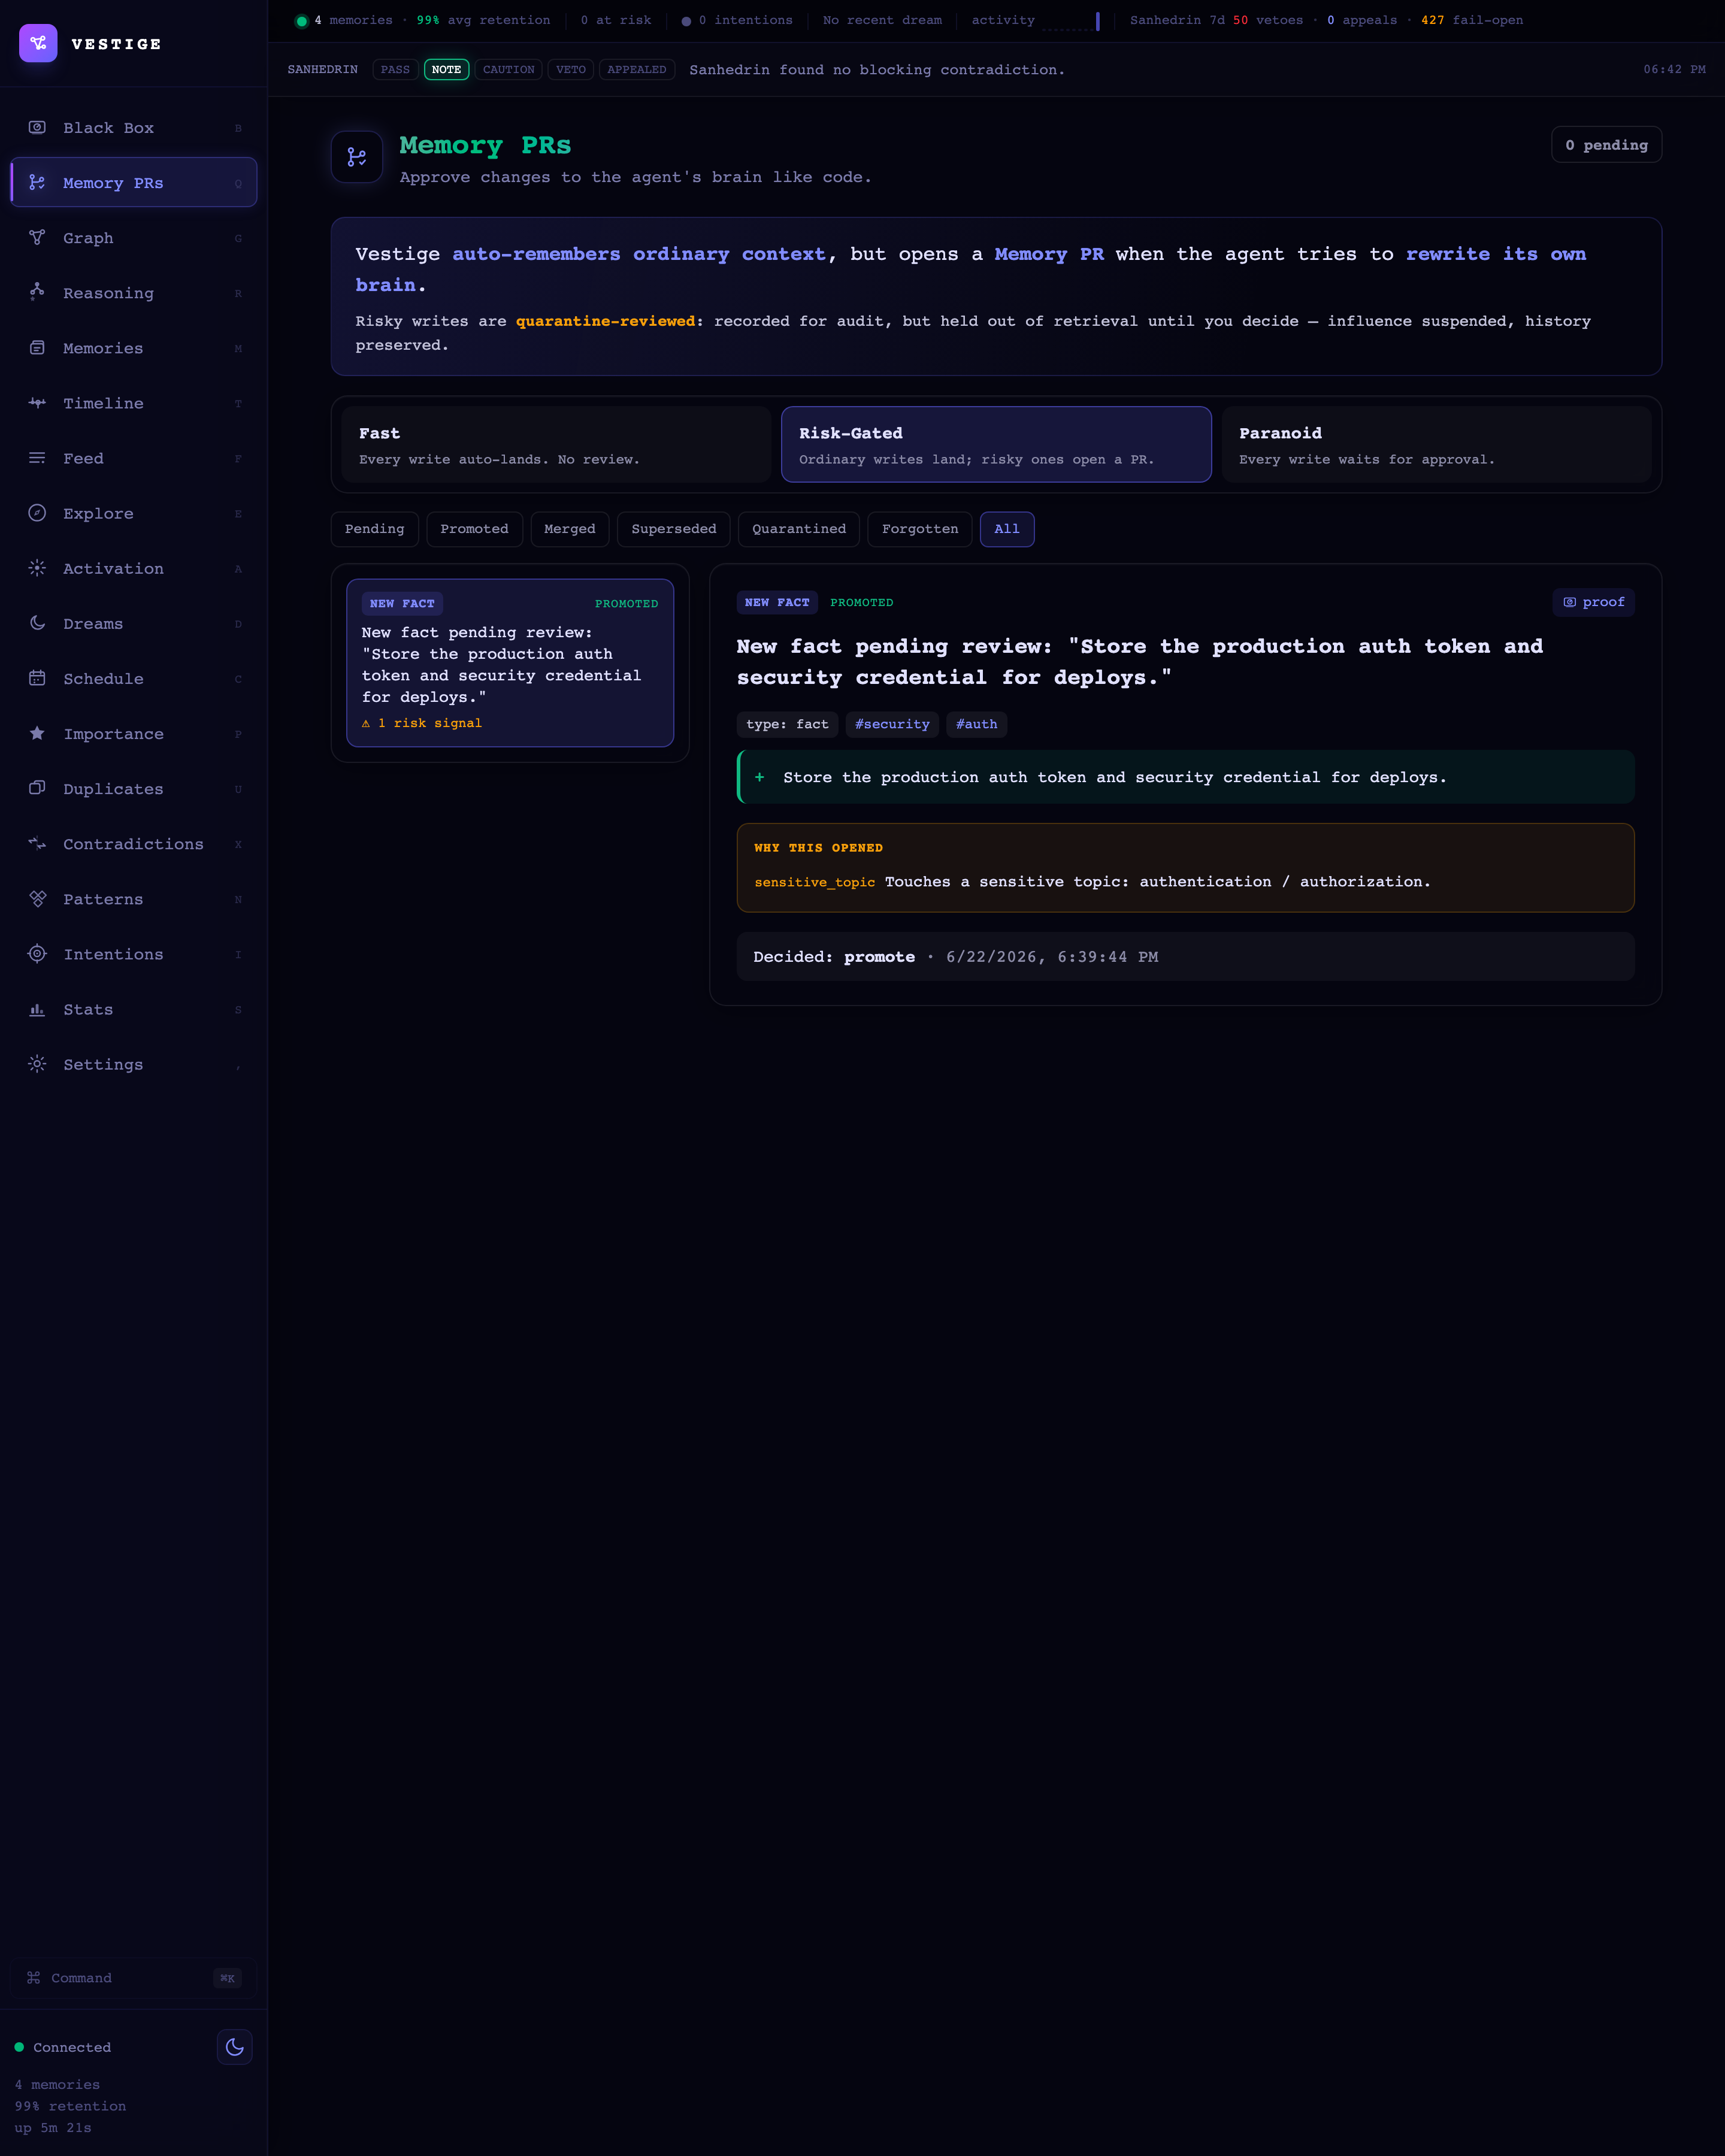
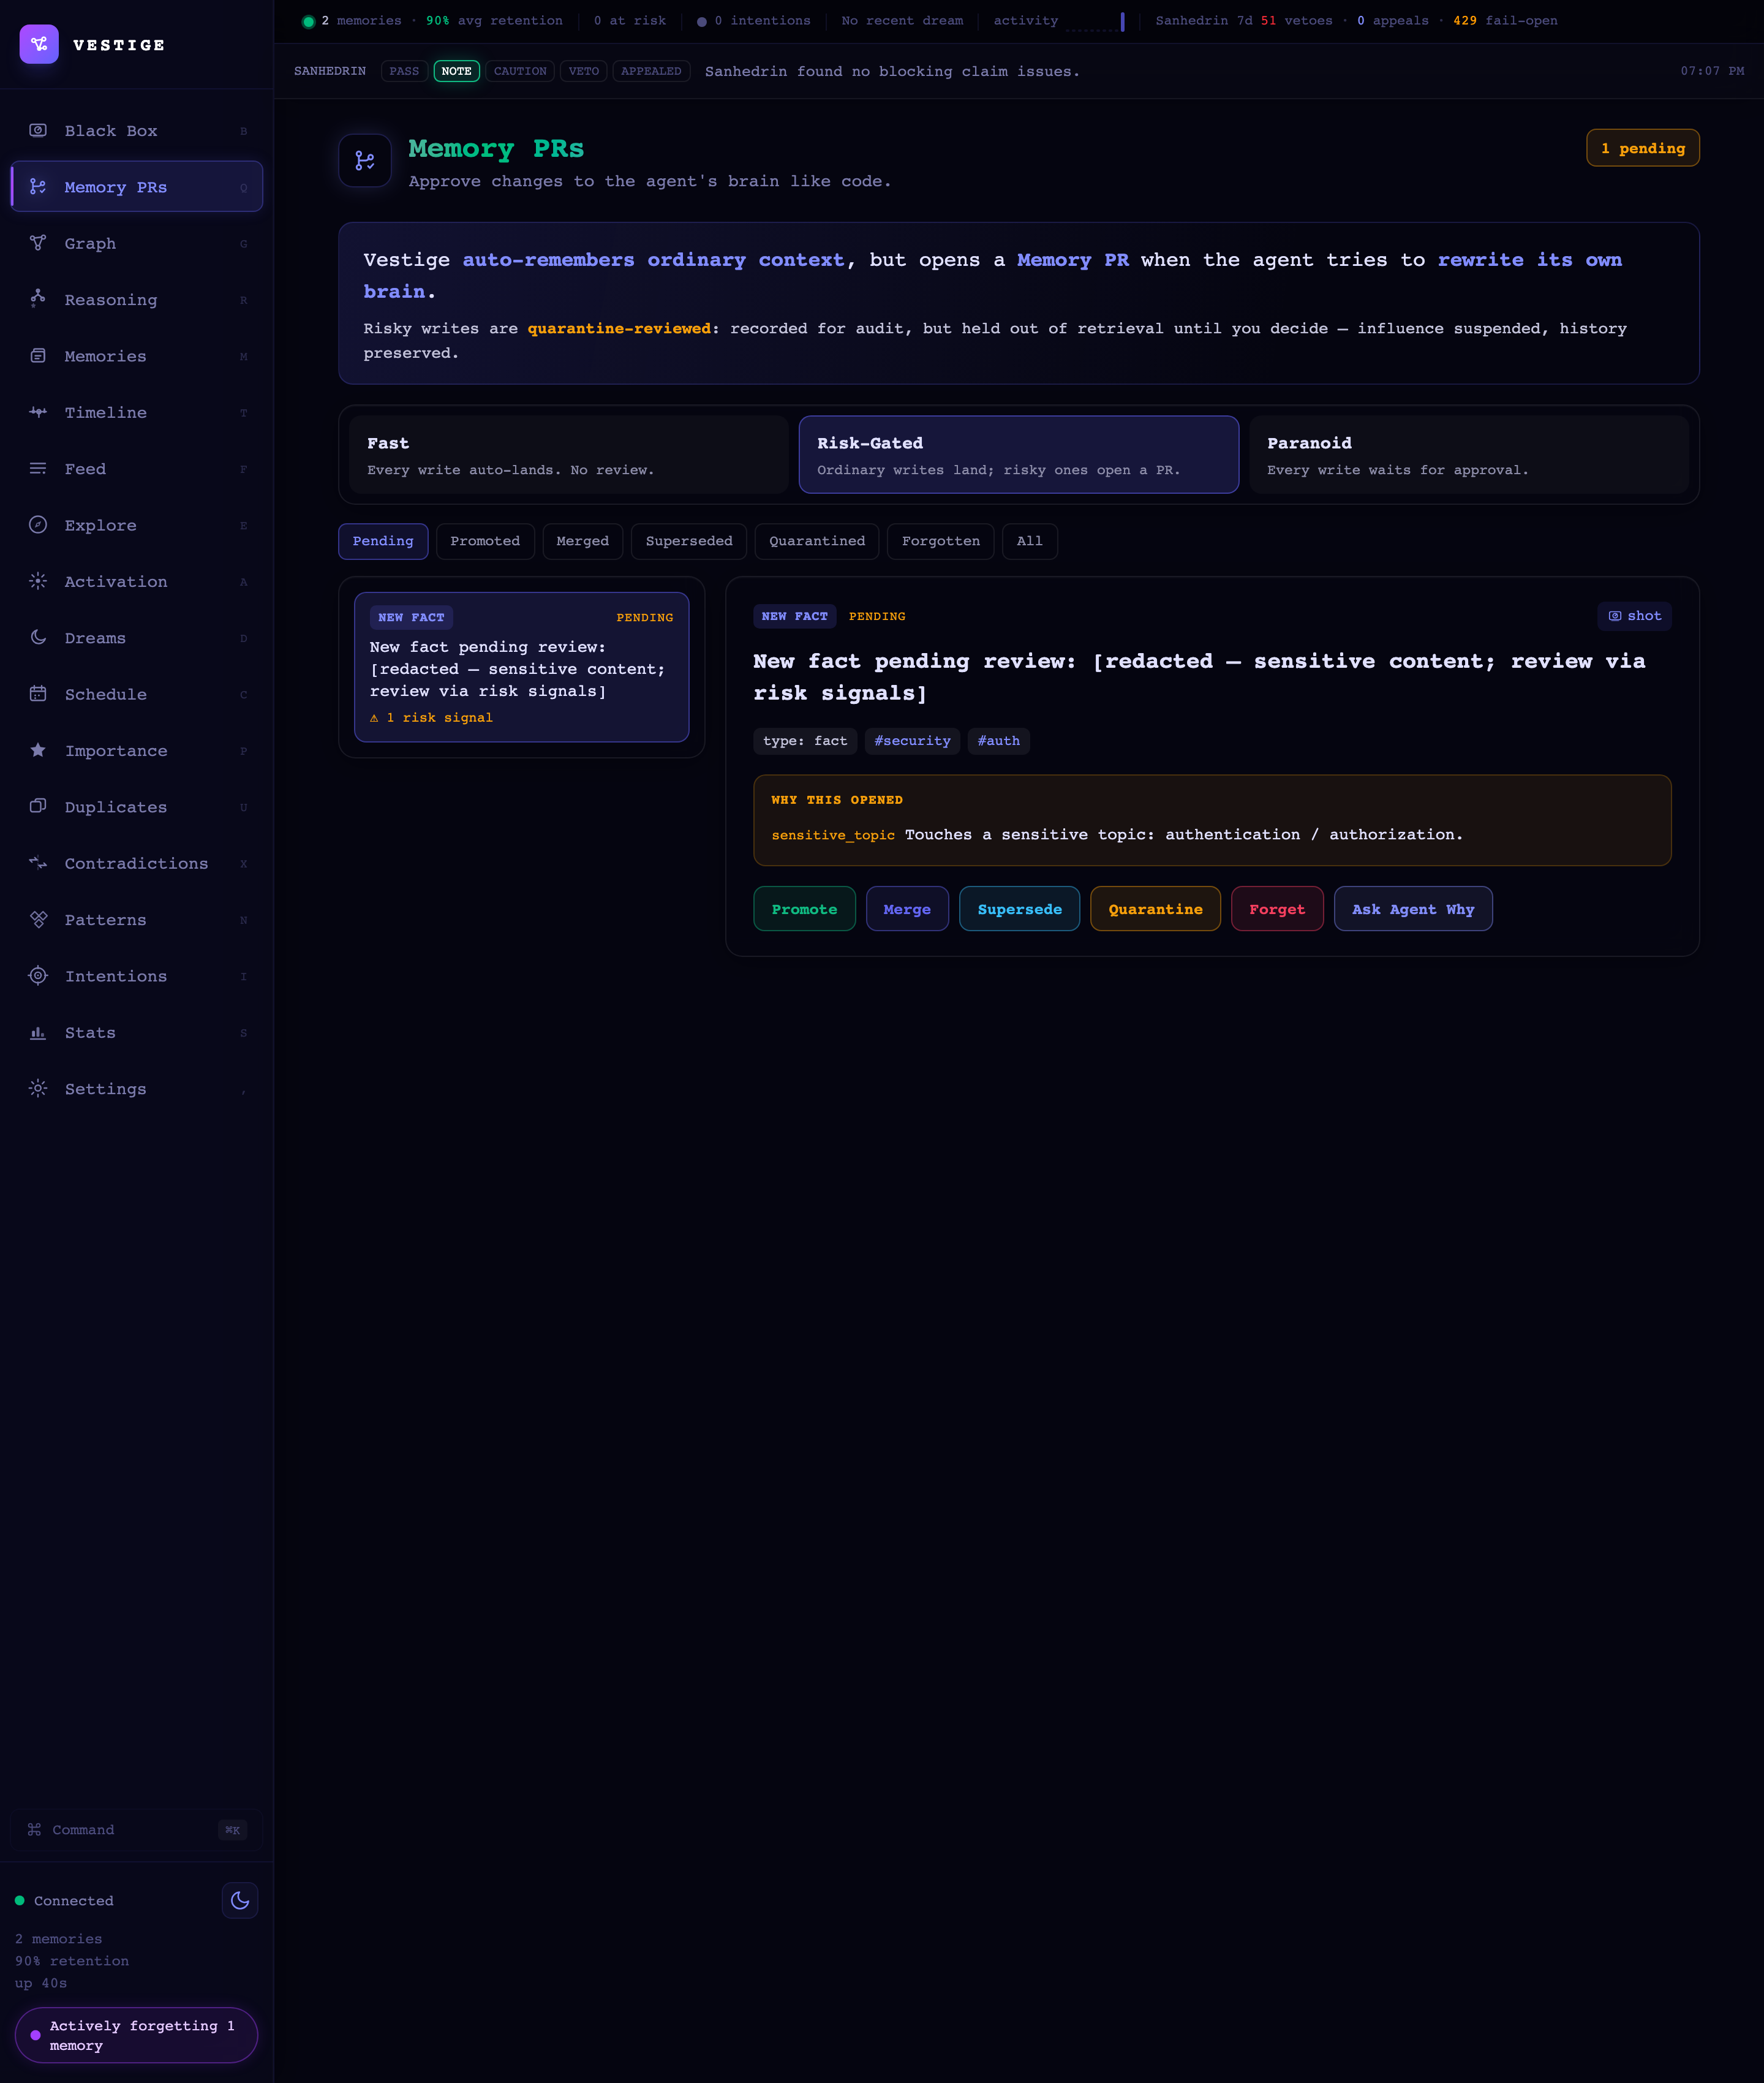
fix(blackbox): C2-deep gate destructive writes post-delete + redact PR content
Two deeper review findings (both blockers) + doc de-staling.

C2-deep: my earlier C2 made purge/delete TRACE as memory.write, but gate_writes
did `get_node(id) -> skip on None`, and purge had already DELETEd the row — so a
destructive removal still never opened a Memory PR (it was silently skipped).
The most security-critical write type couldn't be reviewed. Fix: a missing node
is now gateable for destructive decisions — gate_writes builds the WriteContext
from the decision itself (marks `forgets`, which classify_write gates), and the
PR records the removal with node.deleted=true. Proven live: purging a node opens
a PR (kind node_decayed, deleted true); test
gate_opens_pr_for_destructive_write_after_node_deleted_c2.

PRIV: gate_writes copied the FULL node.content into the PR diff + title, so a
real secret in a gated memory would leak into the memory_prs table, the
dashboard, and any exported proof bundle — defeating the point of gating
sensitive writes. Fix: the PR now stores a truncated content PREVIEW + an FNV
content HASH, and sensitive-topic/sensitive-node-type writes are fully REDACTED
("[redacted — sensitive content; review via risk signals]"). The reviewer still
sees the risk signals (why it opened) and a hash (to correlate), never the
secret. Tests gate_redacts_sensitive_content_in_pr_priv,
content_preview_redacts_sensitive_and_truncates, content_hash_is_stable. The
committed memory_pr.json + the whole proof bundle were re-captured and contain
[…]

diff --git a/crates/vestige-mcp/src/trace_recorder.rs b/crates/vestige-mcp/src/trace_recorder.rs
@@ -109,61 +109,81 @@ pub fn gate_writes(
     // Collect each (id, decision) write the tool reported.
     let writes = extract_writes(result);
     for (id, decision) in writes {
+        let destructive = is_destructive_decision(&decision);
+
         // Pull the just-written node to inspect its real content/type/tags.
+        // C2: a destructive write (purge/delete/forget) has ALREADY removed the
+        // row, so get_node returns None — we must NOT skip it (that's how
+        // destructive removals were bypassing review). For those, build the
+        // context from the decision alone; for normal writes a missing node
+        // genuinely means nothing to gate, so skip.
         let node = match storage.get_node(&id) {
-            Ok(Some(n)) => n,
+            Ok(Some(n)) => Some(n),
+            _ if destructive => None,
             _ => continue,
         };
 
-        // A decision of supersede/replace/merge means the write overwrote an
-        // existing memory — the strongest risk signal. Look up the trust of the
-        // memory it superseded so the gate can weigh it.
         let (supersedes, merges) = match decision.as_str() {
-            "supersede" | "replace" => (true, false),
-            "merge" => (false, true),
+            "supersede" | "replace" | "superseded" => (true, false),
+            "merge" | "merged" => (false, true),
             _ => (false, false),
         };
         // If this superseded something, treat the contradiction as against a
         // high-trust memory when the *new* node's own retention is high (the
         // pipeline only supersedes when confident). This keeps the gate honest
         // without a second DB round-trip per write.
-        let contradicts_trust = if supersedes {
-            Some(node.retention_strength.max(0.7))
-        } else {
-            None
+        let contradicts_trust = match (&node, supersedes) {
+            (Some(n), true) => Some(n.retention_strength.max(0.7)),
+            _ => None,
         };
 
         let ctx = WriteContext {
             source: Some(WriteSource::Agent),
-            node_type: node.node_type.clone(),
-            content: node.content.clone(),
-            tags: node.tags.clone(),
+            node_type: node.as_ref().map(|n| n.node_type.clone()).unwrap_or_default(),
+            content: node.as_ref().map(|n| n.content.clone()).unwrap_or_default(),
+            tags: node.as_ref().map(|n| n.tags.clone()).unwrap_or_default(),
             contradicts_trust,
             supersedes,
             merges,
+            forgets: destructive,
             ..Default::default()
         };
 
+        // A destructive write ALWAYS warrants review (erasing brain state) even
+        // in Fast mode is debatable, but we respect the mode: the `forgets`
+        // signal in WriteContext makes classify_write gate it in Risk-Gated.
         let (class, signals) = classify_write(&ctx, mode);
         if class != RiskClass::Review {
             continue;
         }
 
-        // Quarantine the just-written node: suppress it so it is held out of
-        // retrieval until the PR is decided. Best-effort.
-        let _ = storage.suppress_memory(&id);
+        // Quarantine the just-written node so it's held out of retrieval until
+        // the PR is decided. For a destructive write there's no live node to
+        // suppress — the PR records the action for review/audit instead.
+        if node.is_some() {
+            let _ = storage.suppress_memory(&id);
+        }
 
         let kind = match decision.as_str() {
-            "supersede" | "replace" => MemoryPrKind::MemorySuperseded,
-            "merge" => MemoryPrKind::DreamConsolidation,
+            "supersede" | "replace" | "superseded" => MemoryPrKind::MemorySuperseded,
+            "merge" | "merged" => MemoryPrKind::DreamConsolidation,
+            _ if destructive => MemoryPrKind::NodeDecayed,
             _ if contradicts_trust.is_some() => MemoryPrKind::ContradictionDetected,
             _ => MemoryPrKind::NewFact,
         };
-        let title = format!(
-            "{}: \"{}\"",
-            pr_kind_phrase(kind),
-            node.content.chars().take(80).collect::<String>()
-        );
+
+        // PRIV: never copy full memory content into the PR (it can hold a
+        // secret, and the PR row is read by the dashboard and may be exported).
+        // Store a short, redacted preview + a content hash instead. The preview
+        // is dropped entirely when the write was gated for a sensitive topic.
+        let sensitive = signals.iter().any(|s| {
+            s.code == "sensitive_topic" || s.code == "sensitive_node_type"
+        });
+        let raw_content = node.as_ref().map(|n| n.content.as_str()).unwrap_or("");
+        let preview = content_preview(raw_content, sensitive);
+        let content_hash = hash_content(raw_content);
+
+        let title = format!("{}: {}", pr_kind_phrase(kind), preview);
         let pr = MemoryPr {
             id: format!("pr_{}", uuid::Uuid::new_v4().simple()),
             kind,
@@ -172,10 +192,14 @@ pub fn gate_writes(
             diff: serde_json::json!({
                 "decision": decision,
                 "node": {
-                    "id": node.id,
-                    "nodeType": node.node_type,
-                    "content": node.content,
-                    "tags": node.tags,
+                    "id": id,
+                    "nodeType": node.as_ref().map(|n| n.node_type.clone()).unwrap_or_default(),
+                    // Redacted: preview (or "[redacted — sensitive]") + hash,
+                    // never the full content.
+                    "contentPreview": preview,
+                    "contentHash": content_hash,
+                    "tags": node.as_ref().map(|n| n.tags.clone()).unwrap_or_default(),
+                    "deleted": node.is_none(),
                 },
             }),
             signals: signals.clone(),
@@ -212,6 +236,46 @@ pub fn gate_writes(
     }
 
     opened
+}
+
+/// Whether a write decision permanently removes / forgets memory (so the live
+/// row may already be gone when the gate runs).
+fn is_destructive_decision(label: &str) -> bool {
+    matches!(
+        label,
+        "purge" | "purged" | "delete" | "deleted" | "forget" | "forgotten"
+    )
+}
+
+/// A short, privacy-preserving preview of memory content for a Memory PR.
+/// When the write was flagged for a sensitive topic, the content is redacted
+/// entirely — the reviewer sees the risk signals + hash, never the secret.
+fn content_preview(content: &str, sensitive: bool) -> String {
+    if content.is_empty() {
+        return "(no content)".to_string();
+    }
+    if sensitive {
+        return "[redacted — sensitive content; review via risk signals]".to_string();
+    }
+    let trimmed: String = content.chars().take(80).collect();
+    if content.chars().count() > 80 {
+        format!("{trimmed}…")
+    } else {
+        trimmed
+    }
+}
+
+/// FNV-1a hex fingerprint of memory content — lets a reviewer correlate /
+/// dedupe without the PR row carrying the raw (possibly secret) text.
+fn hash_content(content: &str) -> String {
+    const FNV_OFFSET: u64 = 0xcbf2_9ce4_8422_2325;
+    const FNV_PRIME: u64 = 0x0000_0100_0000_01b3;
+    let mut hash = FNV_OFFSET;
+    for b in content.as_bytes() {
+        hash ^= u64::from(*b);
+        hash = hash.wrapping_mul(FNV_PRIME);
+    }
+    format!("{:016x}", hash)
 }
 
 fn pr_kind_phrase(kind: vestige_core::MemoryPrKind) -> &'static str {
@@ -843,6 +907,40 @@ mod tests {
     }
 
     #[test]
+    fn destructive_decision_classification_c2() {
+        for d in ["purge", "delete", "forget", "purged", "deleted", "forgotten"] {
+            assert!(is_destructive_decision(d), "{d} is destructive");
+        }
+        for d in ["create", "update", "promote", "reinforce"] {
+            assert!(!is_destructive_decision(d), "{d} is not destructive");
+        }
+    }
+
+    #[test]
+    fn content_preview_redacts_sensitive_and_truncates() {
+        // PRIV: sensitive content is fully redacted, never previewed.
+        assert_eq!(
+            content_preview("the production auth token is sk-abc123", true),
+            "[redacted — sensitive content; review via risk signals]"
+        );
+        // Ordinary content is truncated, not redacted.
+        let long = "a".repeat(200);
+        let prev = content_preview(&long, false);
+        assert!(prev.ends_with('…'));
+        assert!(prev.chars().count() <= 81);
+        // Empty content.
+        assert_eq!(content_preview("", false), "(no content)");
+    }
+
+    #[test]
+    fn content_hash_is_stable_and_hides_text() {
+        let h = hash_content("my secret memory");
+        assert_eq!(h, hash_content("my secret memory"), "stable");
+        assert!(!h.contains("secret"));
+        assert_eq!(h.len(), 16);
+    }
+
+    #[test]
     fn extract_writes_recognizes_destructive_actions_c2() {
         // C2: purge/delete are brain mutations and must trace + be gateable.
         for act in ["purge", "delete"] {
@@ -853,6 +951,88 @@ mod tests {
                 "{act} must be traced as a write"
             );
         }
+    }
+
+    fn store() -> std::sync::Arc<vestige_core::Storage> {
+        let dir = tempfile::tempdir().unwrap();
+        std::sync::Arc::new(
+            vestige_core::Storage::new(Some(dir.path().join("gate_test.db"))).unwrap(),
+        )
+    }
+
+    #[test]
+    fn gate_opens_pr_for_destructive_write_after_node_deleted_c2() {
+        // C2-deep: the row is GONE by the time the gate runs (purge deleted it),
+        // but a destructive write must STILL open a Memory PR — not be skipped.
+        let s = store();
+        let node = s
+            .ingest(vestige_core::IngestInput {
+                content: "A memory the agent is about to purge.".to_string(),
+                node_type: "fact".to_string(),
+                ..Default::default()
+            })
+            .unwrap();
+        // Actually delete the row, like purge does.
+        let _ = s.delete_node(&node.id);
+        assert!(s.get_node(&node.id).unwrap().is_none(), "row is gone");
+
+        // The tool result the recorder sees for the purge.
+        let result = serde_json::json!({ "action": "purge", "nodeId": node.id, "success": true });
+        let opened = gate_writes(
+            &s,
+            None,
+            "run_c2",
+            "memory",
+            &result,
+            vestige_core::ReviewMode::RiskGated,
+        );
+
+        assert_eq!(opened.len(), 1, "destructive write must open a PR even with the node gone");
+        let pr = s.list_memory_prs(Some(vestige_core::MemoryPrStatus::Pending), 10).unwrap();
+        assert_eq!(pr.len(), 1);
+        assert_eq!(pr[0].subject_id.as_deref(), Some(node.id.as_str()));
+        // The diff marks the node as deleted and carries no resurrected content.
+        assert_eq!(pr[0].diff["node"]["deleted"], serde_json::json!(true));
+    }
+
+    #[test]
+    fn gate_redacts_sensitive_content_in_pr_priv() {
+        // PRIV: a write gated for a sensitive topic must NOT carry the raw
+        // content into the PR diff/title — only a redaction + hash.
+        let s = store();
+        let secret = "the production auth token is sk-live-SECRET-XYZ";
+        let node = s
+            .ingest(vestige_core::IngestInput {
+                content: secret.to_string(),
+                node_type: "fact".to_string(),
+                ..Default::default()
+            })
+            .unwrap();
+        let result = serde_json::json!({ "decision": "create", "nodeId": node.id });
+        let opened = gate_writes(
+            &s,
+            None,
+            "run_priv",
+            "smart_ingest",
+            &result,
+            vestige_core::ReviewMode::RiskGated,
+        );
+        assert_eq!(opened.len(), 1, "sensitive write opens a PR");
+
+        let pr = &s
+            .list_memory_prs(Some(vestige_core::MemoryPrStatus::Pending), 10)
+            .unwrap()[0];
+        let serialized = serde_json::to_string(pr).unwrap();
+        assert!(
+            !serialized.contains("SECRET-XYZ") && !serialized.contains("sk-live"),
+            "PR must not contain the raw secret content; got: {serialized}"
+        );
+        assert!(
+            serialized.contains("redacted"),
+            "PR must mark the content redacted"
+        );
+        // A content hash is present so reviewers can still correlate.
+        assert!(pr.diff["node"]["contentHash"].as_str().is_some());
     }
 
     #[test]

diff --git a/blackbox-proof-2026-06-22/REVIEW.md b/blackbox-proof-2026-06-22/REVIEW.md
@@ -114,13 +114,17 @@ $ git diff --stat 9e92a59..HEAD -- ':!apps/dashboard/build' ':!blackbox-proof-20
 # live count — it grows as review fixes land.
 ```
 
-Commits (oldest first):
+Commits (oldest first) — run `git log --oneline 9e92a59..HEAD` for the live,
+authoritative list; the series so far:
 - `80c823a` feat: Agent Black Box + Receipts + risk-gated Memory PRs
 - `b89beee` proof: Proof Lock — full-spine test, honest UI states, proof pack
 - `140b15f` proof: dream.patch proven live with a real dream run
 - `cadffb4` docs: package the review bundle — REVIEW.md entry point
-- `8f7bed0` fix: address review blockers B1–B7 + re-capture proof bundle
-- (+ a follow-up fix commit for C1/C2 — see "Review findings addressed")
+- `8f7bed0` fix: review blockers B1–B7 + re-capture proof bundle
+- `6a0173d` fix: C1 unconditional quarantine release + C2 trace destructive writes
+- `…` fix: C2-deep (gate destructive writes post-delete) + PRIV (redact PR content)
+
+The hashes above are point-in-time; the branch tip is the source of truth.
 
 Key files to review:
 - **Core (pure logic):** `crates/vestige-core/src/trace/{mod,receipt,review}.rs`
@@ -170,12 +174,14 @@ found 7 real issues — 4 blockers. All fixed and tested:
 | B7 | P3 | `set_review_mode` non-atomic write; export filename used raw `run_id` | `write_atomic` (temp+rename); filename sanitized; static routes declared before dynamic | covered by build + the atomic-write helper's existing use |
 | C1 | blocker | B1's release used `reverse_suppression`, which **refuses past the 24h labile window** — a PR promoted late stayed suppressed | new `release_quarantine(id)`: unconditional release (no time limit), used by the PR handler instead | test `release_quarantine_works_past_the_labile_window_c1` (proves reverse_suppression refuses but release_quarantine succeeds at +100h) |
 | C2 | blocker | `memory` `purge`/`delete` (destructive removal) bypassed the write-trace + gate | added purge/purged/delete/deleted/forget/forgotten to `is_write_decision` | test `extract_writes_recognizes_destructive_actions_c2` |
+| C2-deep | blocker | C2 made purge *trace*, but `gate_writes` did `get_node→skip` on the (already-deleted) row, so a destructive write still **never opened a PR** | gate now treats a missing node as gateable for destructive decisions (builds the context from the decision, marks `forgets`); the PR records the removal with `deleted:true` | test `gate_opens_pr_for_destructive_write_after_node_deleted_c2`; **live:** purging a node opened a PR (`kind: node_decayed`, `deleted: true`) |
+| PRIV | blocker | `gate_writes` copied **full `node.content`** into the PR `diff` + `title` — a real secret would leak into the `memory_prs` table and any exported proof bundle | PR now stores a truncated **preview** + a **content hash**; sensitive-topic-gated writes are fully **redacted** (`[redacted — sensitive content…]`); the committed `memory_pr.json` was re-captured and contains no secret | tests `gate_redacts_sensitive_content_in_pr_priv`, `content_preview_redacts_sensitive_and_truncates`; **live + bundle scan:** no secret string anywhere |
 
 One earlier (self-)review claim was **withdrawn**: the `/api/memory-prs/mode`
 vs `/{id}` route order is *not* a functional bug — axum 0.8 / matchit gives
 static segments priority. Reordered for clarity only.
 
-Net after fixes (B1–B7 + C1/C2): **1002 lib tests pass, clippy `-D warnings` clean, dashboard
+Net after fixes (B1–B7 + C1/C2 + C2-deep + PRIV): **1007 lib tests pass, clippy `-D warnings` clean, dashboard
 check + build clean.**
 
 ## Reproduce (any reviewer, locally)

diff --git a/blackbox-proof-2026-06-22/PROOF.md b/blackbox-proof-2026-06-22/PROOF.md
@@ -42,12 +42,12 @@ deterministic regression test `test_full_spine_one_runid_crosses_every_hop`
 | Feature | Status | Notes |
 |---------|--------|-------|
 | `mcp.call` trace | **REAL** | every tools/call records one; args **hashed**, never stored raw |
-| `memory.write` trace | **REAL** | fires on smart_ingest/ingest |
+| `memory.write` trace | **REAL** | fires on smart_ingest/ingest, memory promote/demote/edit, codebase remember_*, AND destructive purge/delete |
 | `memory.retrieve` trace | **REAL** | fires on deep_reference/search, with per-id activation |
 | `memory.suppress` trace | **REAL** | recorded path; fires when retrieval suppresses |
 | `contradiction.detected` trace | **REAL** | fires when deep_reference surfaces a contradiction pair; UI says "no contradiction in this run" when none |
 | Memory Receipts | **REAL** | built from real scored memories + trust, persisted, attached to output |
-| Risk-gated Memory PRs | **REAL** | quarantine review: commit-then-suppress, audit preserved, influence suspended. Promote verified end-to-end |
+| Risk-gated Memory PRs | **REAL** | quarantine review: commit-then-suppress, audit preserved, influence suspended. Promote verified end-to-end (releases the memory, even past the 24h window). Destructive purge/delete also open a PR. PR content is **redacted** for sensitive writes (preview + hash, never the raw secret) |
 | Fast / Risk-Gated / Paranoid modes | **REAL** | persisted to `<data_dir>/review_mode.json`; Risk-Gated is the default |
 | WebSocket broadcast | **REAL** | proven by `websocket-events.jsonl` + a unit test |
 | `vestige://trace/{runId}` resource | **REAL** | proven by the full-spine test |